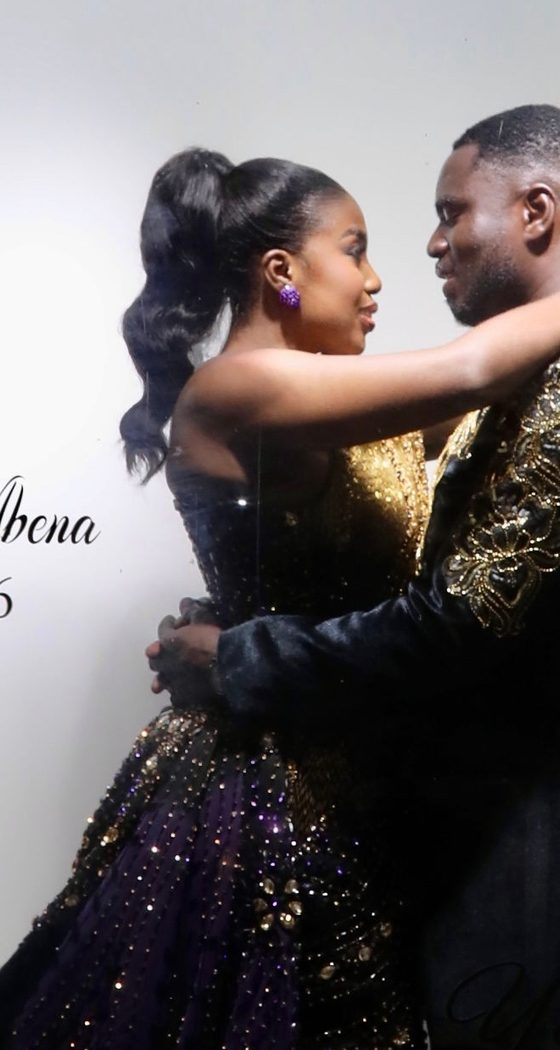
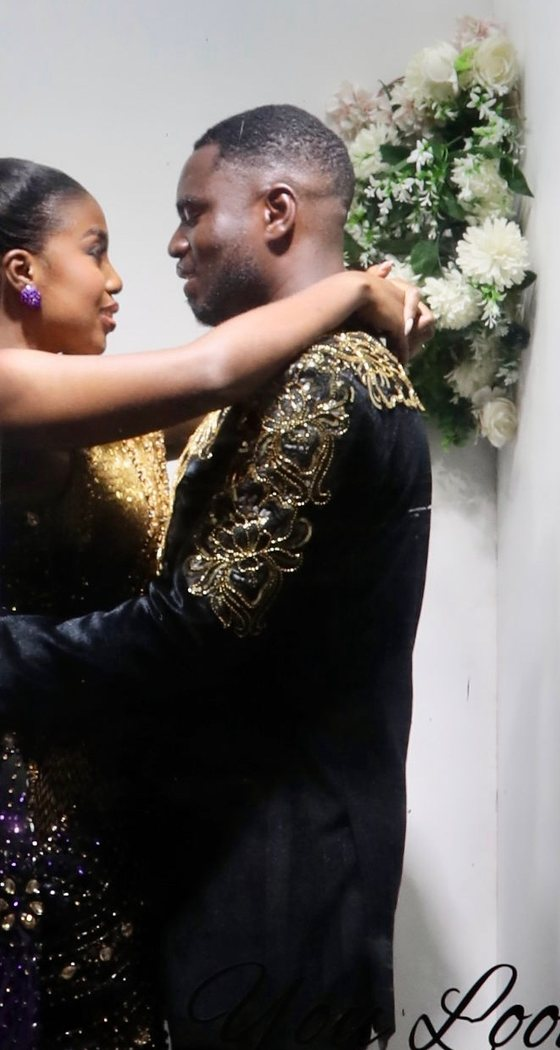
Move the hover preview to the right panel and reframe Accommodation
The left photo is the one people already know from mobile, so it stays
put as the identity shot and the right panel does the previewing.

Accommodation was a 1.35x zoom anchored low on the standing portrait,
which cut both their heads off. It is now a tight frame on their faces,
taken from the sofa photo so it does not repeat the Programme panel.
Photos moves to the embrace from the wedding-day shot.

diff --git a/index.html b/index.html
@@ -771,8 +771,6 @@
 
       .hero-photo-panel {
         display: block;
-        position: relative;
-        overflow: hidden;
         background-image: url('weddingparty/chinchisimon1.jpeg');
         background-size: cover;
         background-position: center 22%;
@@ -792,6 +790,8 @@
 
       .hero-photo-panel-right {
         display: block;
+        position: relative;
+        overflow: hidden;
         background-image: url('weddingparty/chinchisimon2.jpeg');
         background-size: cover;
         background-position: center 20%;
@@ -873,10 +873,7 @@
   <!-- ===== HERO ===== -->
   <div class="hero" id="top">
     <!-- Left column: photo (desktop only) -->
-    <div class="hero-photo-panel" aria-hidden="true">
-      <div class="hero-photo-layer" data-layer="a"></div>
-      <div class="hero-photo-layer" data-layer="b"></div>
-    </div>
+    <div class="hero-photo-panel" aria-hidden="true"></div>
 
     <!-- Right column (desktop) / overlay (mobile): identity & navigation -->
     <div class="hero-info-panel">
@@ -918,8 +915,11 @@
       </div>
     </div>
 
-    <!-- Right photo panel (desktop only) -->
-    <div class="hero-photo-panel-right" aria-hidden="true"></div>
+    <!-- Right photo panel (desktop only) — previews the hovered section -->
+    <div class="hero-photo-panel-right" aria-hidden="true">
+      <div class="hero-photo-layer" data-layer="a"></div>
+      <div class="hero-photo-layer" data-layer="b"></div>
+    </div>
 
     <!-- Down arrow scroll hint (mobile only) -->
     <div class="scroll-hint" aria-hidden="true">
@@ -1010,7 +1010,7 @@
       var nav = document.querySelector('.hero-toc');
       if (!nav || !window.matchMedia('(hover: hover) and (min-width: 768px)').matches) return;
 
-      var panel  = document.querySelector('.hero-photo-panel');
+      var panel  = document.querySelector('.hero-photo-panel-right');
       var layers = panel ? panel.querySelectorAll('.hero-photo-layer') : [];
       var marker = nav.querySelector('.toc-marker');
       var links  = nav.querySelectorAll('a[data-panel]');
